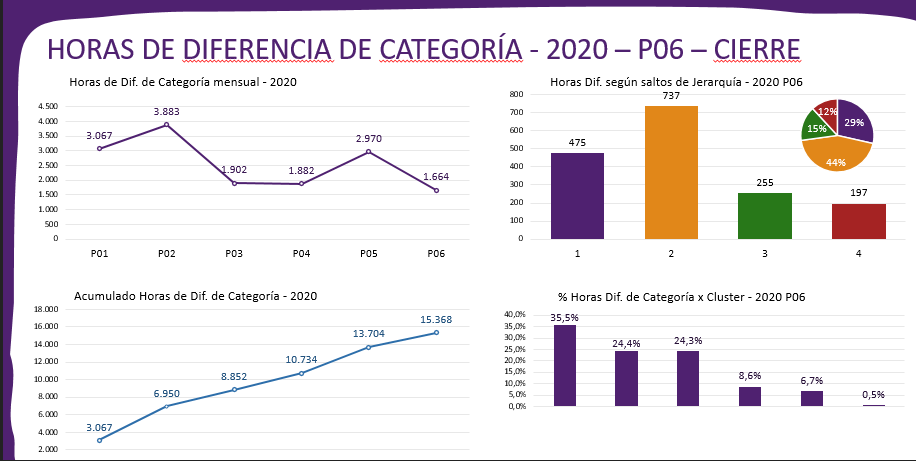
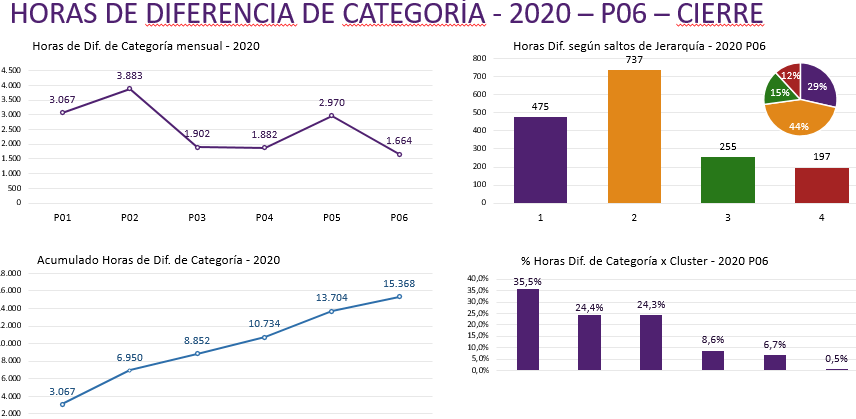
retoque de imagenes, reduccion de peso.

diff --git a/index.html b/index.html
@@ -224,24 +224,24 @@
         <div class="recomendaciones">
           <button class="recomendaciones__slider-button" type="button" name="button" onclick="recoPlusDivs(-1)">&#10094;</button>
 
-          <img class="reco-my-slides" src="./src/assets/img/section/recomendaciones/reco-1.png" alt="">
-          <img class="reco-my-slides" src="./src/assets/img/section/recomendaciones/reco-2.png" alt="">
-          <img class="reco-my-slides" src="./src/assets/img/section/recomendaciones/reco-3.png" alt="">
-          <img class="reco-my-slides" src="./src/assets/img/section/recomendaciones/reco-4.png" alt="">
-          <img class="reco-my-slides" src="./src/assets/img/section/recomendaciones/reco-5.png" alt="">
-          <img class="reco-my-slides" src="./src/assets/img/section/recomendaciones/reco-6.png" alt="">
-          <img class="reco-my-slides" src="./src/assets/img/section/recomendaciones/reco-7.png" alt="">
-          <img class="reco-my-slides" src="./src/assets/img/section/recomendaciones/reco-8.png" alt="">
-          <img class="reco-my-slides" src="./src/assets/img/section/recomendaciones/reco-9.png" alt="">
-          <img class="reco-my-slides" src="./src/assets/img/section/recomendaciones/reco-10.png" alt="">
-          <img class="reco-my-slides" src="./src/assets/img/section/recomendaciones/reco-11.png" alt="">
-          <img class="reco-my-slides" src="./src/assets/img/section/recomendaciones/reco-12.png" alt="">
-          <img class="reco-my-slides" src="./src/assets/img/section/recomendaciones/reco-13.png" alt="">
-          <img class="reco-my-slides" src="./src/assets/img/section/recomendaciones/reco-14.png" alt="">
-          <img class="reco-my-slides" src="./src/assets/img/section/recomendaciones/reco-15.png" alt="">
-          <img class="reco-my-slides" src="./src/assets/img/section/recomendaciones/reco-16.png" alt="">
-          <img class="reco-my-slides" src="./src/assets/img/section/recomendaciones/reco-17.png" alt="">
-          <img class="reco-my-slides" src="./src/assets/img/section/recomendaciones/reco-18.png" alt="">
+          <img class="reco-my-slides" src="./src/assets/img/section/recomendaciones/reco-1.jpg" alt="">
+          <img class="reco-my-slides" src="./src/assets/img/section/recomendaciones/reco-2.jpg" alt="">
+          <img class="reco-my-slides" src="./src/assets/img/section/recomendaciones/reco-3.jpg" alt="">
+          <img class="reco-my-slides" src="./src/assets/img/section/recomendaciones/reco-4.jpg" alt="">
+          <img class="reco-my-slides" src="./src/assets/img/section/recomendaciones/reco-5.jpg" alt="">
+          <img class="reco-my-slides" src="./src/assets/img/section/recomendaciones/reco-6.jpg" alt="">
+          <img class="reco-my-slides" src="./src/assets/img/section/recomendaciones/reco-7.jpg" alt="">
+          <img class="reco-my-slides" src="./src/assets/img/section/recomendaciones/reco-8.jpg" alt="">
+          <img class="reco-my-slides" src="./src/assets/img/section/recomendaciones/reco-9.jpg" alt="">
+          <img class="reco-my-slides" src="./src/assets/img/section/recomendaciones/reco-10.jpg" alt="">
+          <img class="reco-my-slides" src="./src/assets/img/section/recomendaciones/reco-11.jpg" alt="">
+          <img class="reco-my-slides" src="./src/assets/img/section/recomendaciones/reco-12.jpg" alt="">
+          <img class="reco-my-slides" src="./src/assets/img/section/recomendaciones/reco-13.jpg" alt="">
+          <img class="reco-my-slides" src="./src/assets/img/section/recomendaciones/reco-14.jpg" alt="">
+          <img class="reco-my-slides" src="./src/assets/img/section/recomendaciones/reco-15.jpg" alt="">
+          <img class="reco-my-slides" src="./src/assets/img/section/recomendaciones/reco-16.jpg" alt="">
+          <img class="reco-my-slides" src="./src/assets/img/section/recomendaciones/reco-17.jpg" alt="">
+          <img class="reco-my-slides" src="./src/assets/img/section/recomendaciones/reco-18.jpg" alt="">
 
           <button class="recomendaciones__slider-button" type="button" name="button" onclick="recoPlusDivs(1)">&#10095;</button>
 
@@ -251,58 +251,58 @@
         <div class="swiper-container d-none">
           <div class="swiper-wrapper">
             <div class="swiper-slide">
-              <img class="swiper-img" src="./src/assets/img/section/recomendaciones/reco-1.png" alt="">
+              <img class="swiper-img" src="./src/assets/img/section/recomendaciones/reco-1.jpg" alt="">
             </div>
             <div class="swiper-slide">
-              <img class="swiper-img" src="./src/assets/img/section/recomendaciones/reco-2.png" alt="">
+              <img class="swiper-img" src="./src/assets/img/section/recomendaciones/reco-2.jpg" alt="">
             </div>
             <div class="swiper-slide">
-              <img class="swiper-img" src="./src/assets/img/section/recomendaciones/reco-3.png" alt="">
+              <img class="swiper-img" src="./src/assets/img/section/recomendaciones/reco-3.jpg" alt="">
             </div>
             <div class="swiper-slide">
-              <img class="swiper-img" src="./src/assets/img/section/recomendaciones/reco-4.png" alt="">
+              <img class="swiper-img" src="./src/assets/img/section/recomendaciones/reco-4.jpg" alt="">
             </div>
             <div class="swiper-slide">
-              <img class="swiper-img" src="./src/assets/img/section/recomendaciones/reco-5.png" alt="">
+              <img class="swiper-img" src="./src/assets/img/section/recomendaciones/reco-5.jpg" alt="">
             </div>
             <div class="swiper-slide">
-              <img class="swiper-img" src="./src/assets/img/section/recomendaciones/reco-6.png" alt="">
+              <img class="swiper-img" src="./src/assets/img/section/recomendaciones/reco-6.jpg" alt="">
             </div>
             <div class="swiper-slide">
-              <img class="swiper-img" src="./src/assets/img/section/recomendaciones/reco-7.png" alt="">
+              <img class="swiper-img" src="./src/assets/img/section/recomendaciones/reco-7.jpg" alt="">
             </div>
             <div class="swiper-slide">
-              <img class="swiper-img" src="./src/assets/img/section/recomendaciones/reco-8.png" alt="">
+              <img class="swiper-img" src="./src/assets/img/section/recomendaciones/reco-8.jpg" alt="">
             </div>
             <div class="swiper-slide">
-              <img class="swiper-img" src="./src/assets/img/section/recomendaciones/reco-9.png" alt="">
+              <img class="swiper-img" src="./src/assets/img/section/recomendaciones/reco-9.jpg" alt="">
             </div>
             <div class="swiper-slide">
-              <img class="swiper-img" src="./src/assets/img/section/recomendaciones/reco-10.png" alt="">
+              <img class="swiper-img" src="./src/assets/img/section/recomendaciones/reco-10.jpg" alt="">
             </div>
             <div class="swiper-slide">
-              <img class="swiper-img" src="./src/assets/img/section/recomendaciones/reco-11.png" alt="">
+              <img class="swiper-img" src="./src/assets/img/section/recomendaciones/reco-11.jpg" alt="">
             </div>
             <div class="swiper-slide">
-              <img class="swiper-img" src="./src/assets/img/section/recomendaciones/reco-12.png" alt="">
+              <img class="swiper-img" src="./src/assets/img/section/recomendaciones/reco-12.jpg" alt="">
             </div>
             <div class="swiper-slide">
-              <img class="swiper-img" src="./src/assets/img/section/recomendaciones/reco-13.png" alt="">
+              <img class="swiper-img" src="./src/assets/img/section/recomendaciones/reco-13.jpg" alt="">
             </div>
             <div class="swiper-slide">
-              <img class="swiper-img" src="./src/assets/img/section/recomendaciones/reco-14.png" alt="">
+              <img class="swiper-img" src="./src/assets/img/section/recomendaciones/reco-14.jpg" alt="">
             </div>
             <div class="swiper-slide">
-              <img class="swiper-img" src="./src/assets/img/section/recomendaciones/reco-15.png" alt="">
+              <img class="swiper-img" src="./src/assets/img/section/recomendaciones/reco-15.jpg" alt="">
             </div>
             <div class="swiper-slide">
-              <img class="swiper-img" src="./src/assets/img/section/recomendaciones/reco-16.png" alt="">
+              <img class="swiper-img" src="./src/assets/img/section/recomendaciones/reco-16.jpg" alt="">
             </div>
             <div class="swiper-slide">
-              <img class="swiper-img" src="./src/assets/img/section/recomendaciones/reco-17.png" alt="">
+              <img class="swiper-img" src="./src/assets/img/section/recomendaciones/reco-17.jpg" alt="">
             </div>
             <div class="swiper-slide">
-              <img class="swiper-img" src="./src/assets/img/section/recomendaciones/reco-18.png" alt="">
+              <img class="swiper-img" src="./src/assets/img/section/recomendaciones/reco-18.jpg" alt="">
             </div>
 
           </div>

diff --git a/src/css/trabajos.css b/src/css/trabajos.css
@@ -4,10 +4,6 @@
   color: white;
   height: auto;
   text-align: center;
-  background-image: url('../assets/img/container-bg-textures/pattern-curve.svg');
-  background-repeat: no-repeat;
-  background-position: bottom;
-  background-size: contain;
   padding-top: 2rem;
 }
 
